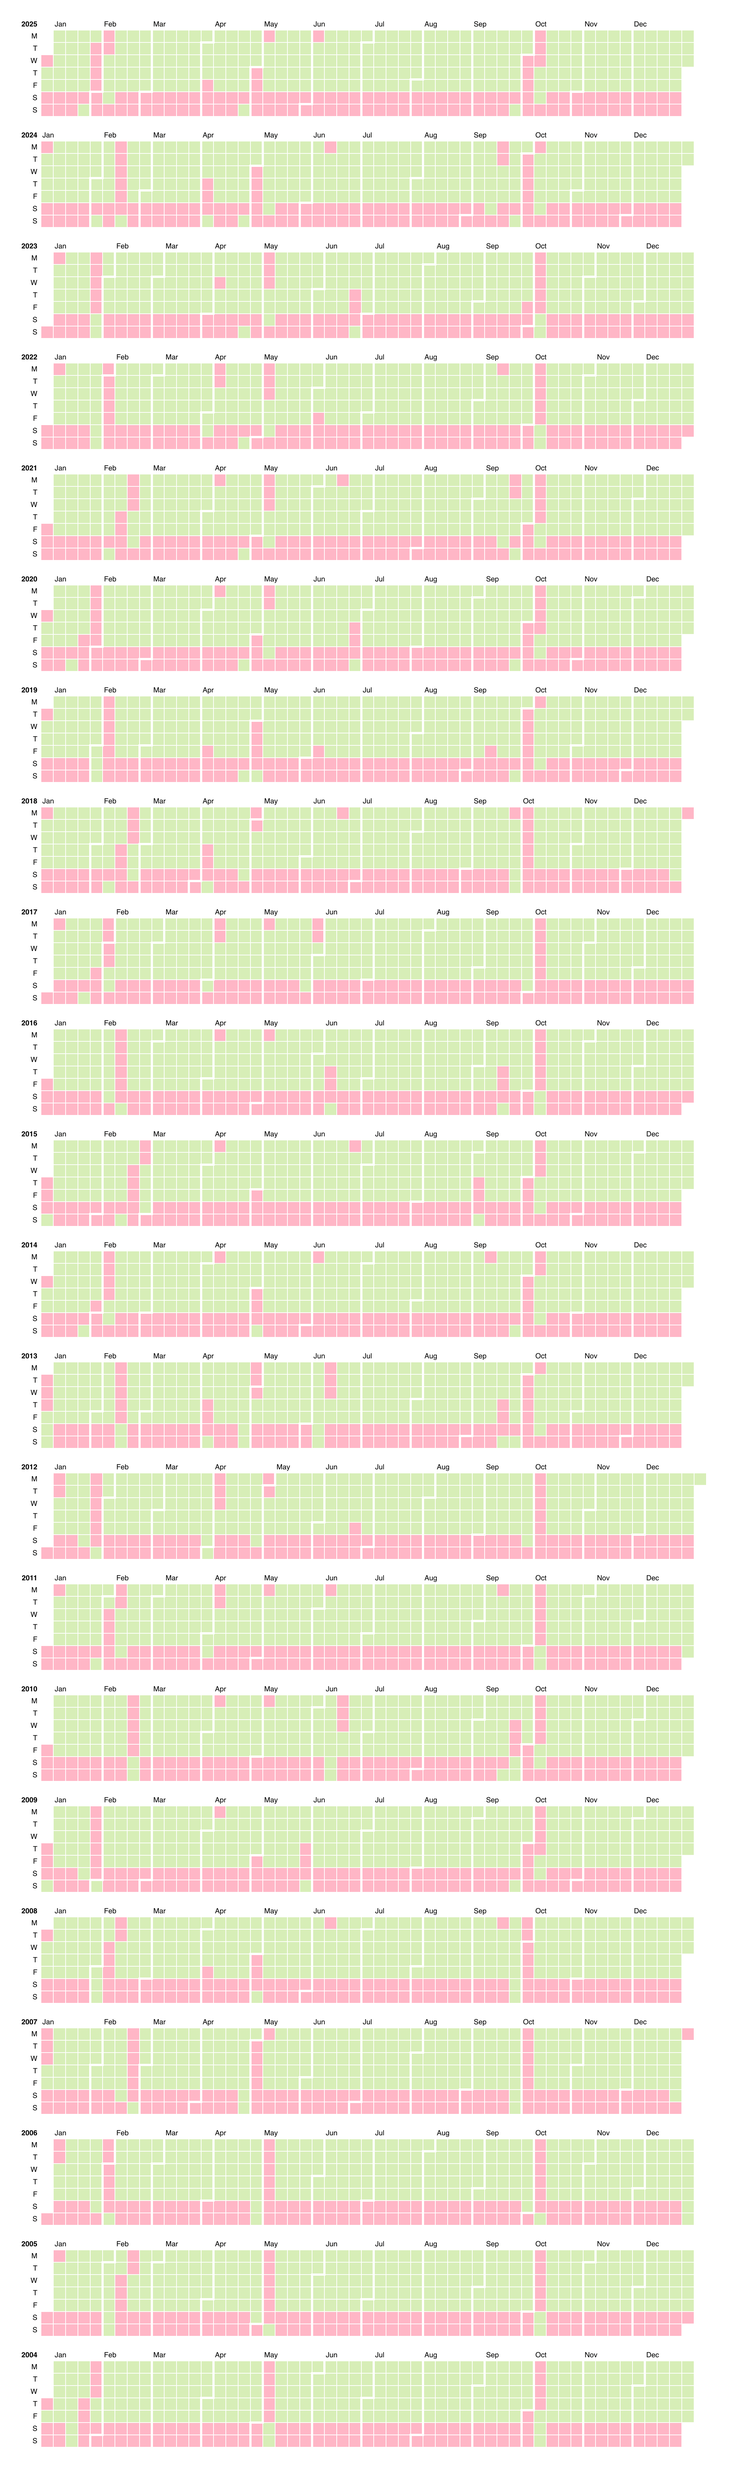
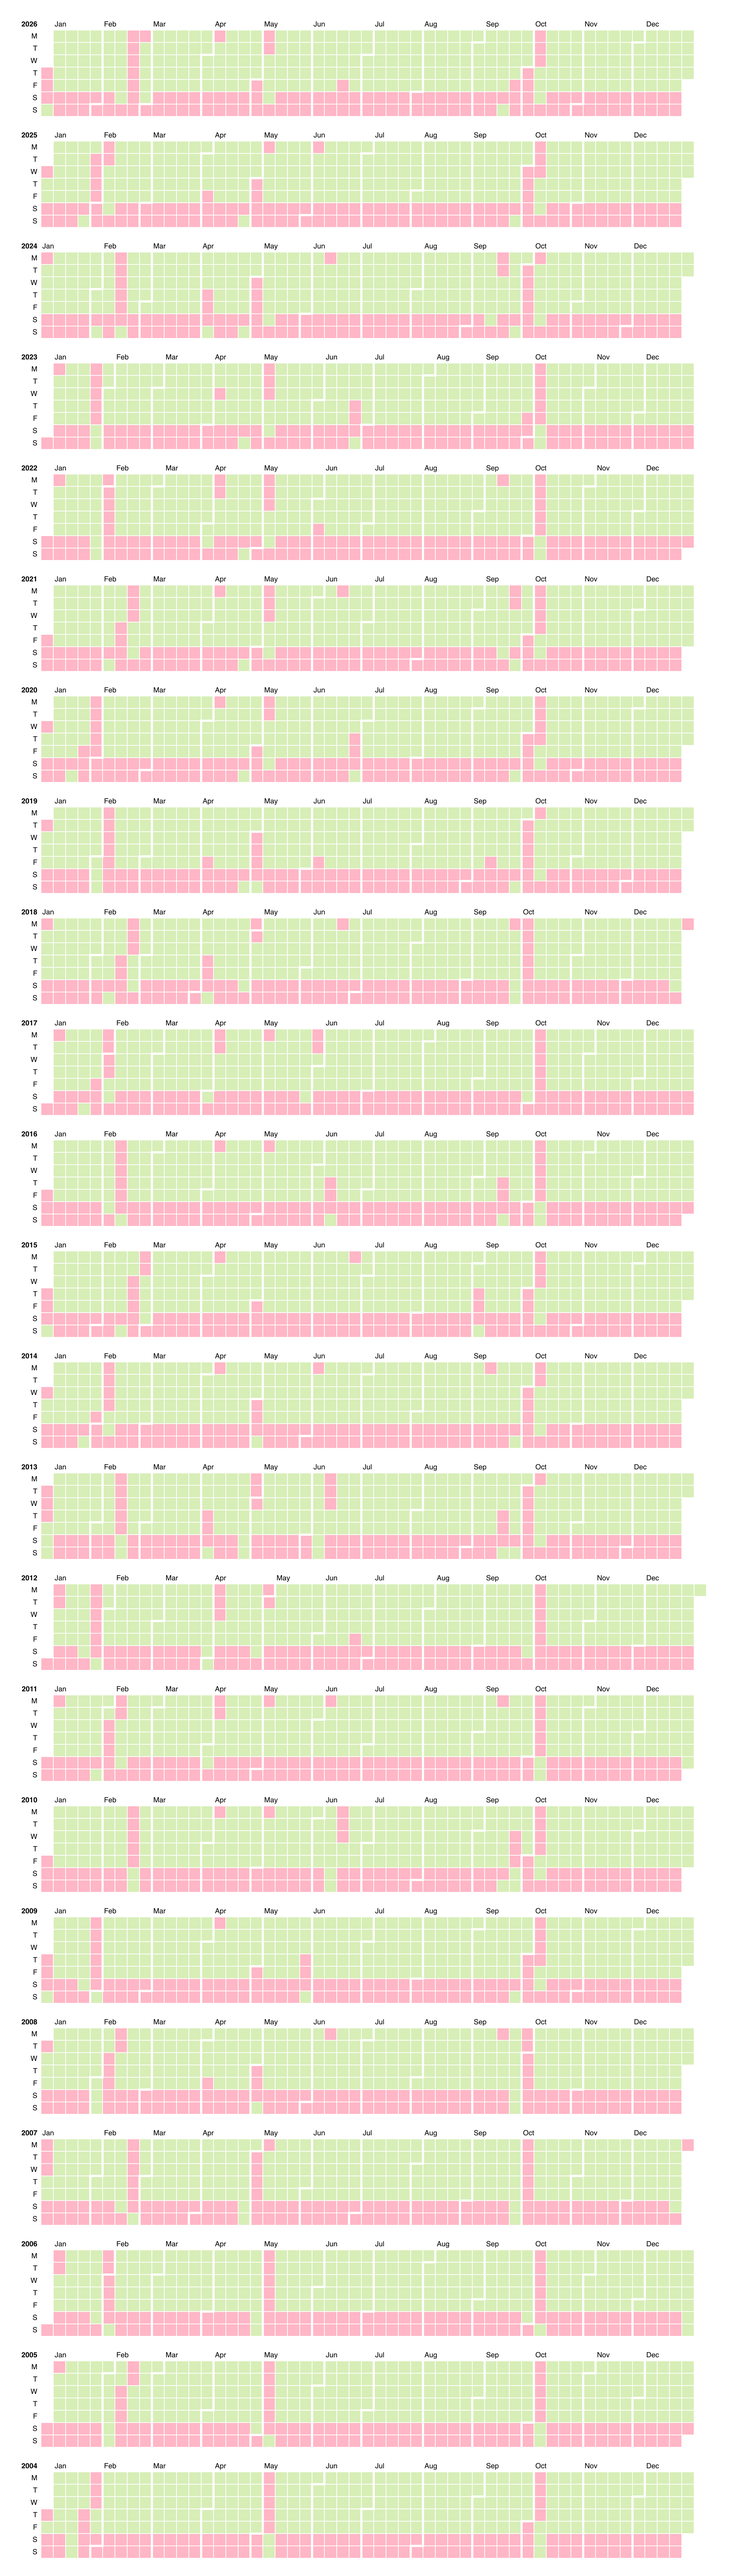
Update README.md for 2026

diff --git a/README.md b/README.md
@@ -1,5 +1,7 @@
 # 中国工作日历
 
+中国工作日历是一个判断指定日期或时间是否为中国官方工作日的Java库。无额外依赖，支持每年的节假日数据自动更新，无需每年升级组件版本。
+
 Chinese Workday Calendar is a Java library that provides functionality to determine workdays and holidays in the Chinese calendar.
 
 ## Features
@@ -14,7 +16,7 @@ Chinese Workday Calendar is a Java library that provides functionality to determ
 
 ```groovy
 dependencies {
-    implementation 'io.github.shawyeok:chinese-workday-calendar:2025.0.0'
+    implementation 'io.github.shawyeok:chinese-workday-calendar:2026.0.0'
 }
 ```
 
@@ -24,7 +26,7 @@ dependencies {
 <dependency>
     <groupId>io.github.shawyeok</groupId>
     <artifactId>chinese-workday-calendar</artifactId>
-    <version>2025.0.0</version>
+    <version>2026.0.0</version>
 </dependency>
 ```
 
@@ -53,7 +55,7 @@ public class QuickStart {
 // 使用默认配置（支持下一年的节假日数据自动更新）
 WorkdayCalendar calendar = WorkdayCalendar.builder().build();
 
-// 自定义远程更新地址, 用户后续只需要每年维护一次该文件即可
+// 自定义远程更新地址, 用于互联网访问受限的场景。由用户提供一个静态文件地址，后续只需要每年维护一次该文件内容即可
 WorkdayCalendar calendar = WorkdayCalendar.builder()
     .remoteCalendarUrl("https://example.com/workday.properties")
     .build();
@@ -79,7 +81,11 @@ calendar.nextWorkday(LocalDate.now());
 
 ![Chart](doc/chart.png)
 
-See the details: https://observablehq.com/d/5624093ac436f7ce 
+See the details: https://observablehq.com/d/5624093ac436f7ce
+
+## Credit
+
+本项目生成最初数据时使用了[chinese-calendar](https://github.com/LKI/chinese-calendar)包。
 
 ## License
 
